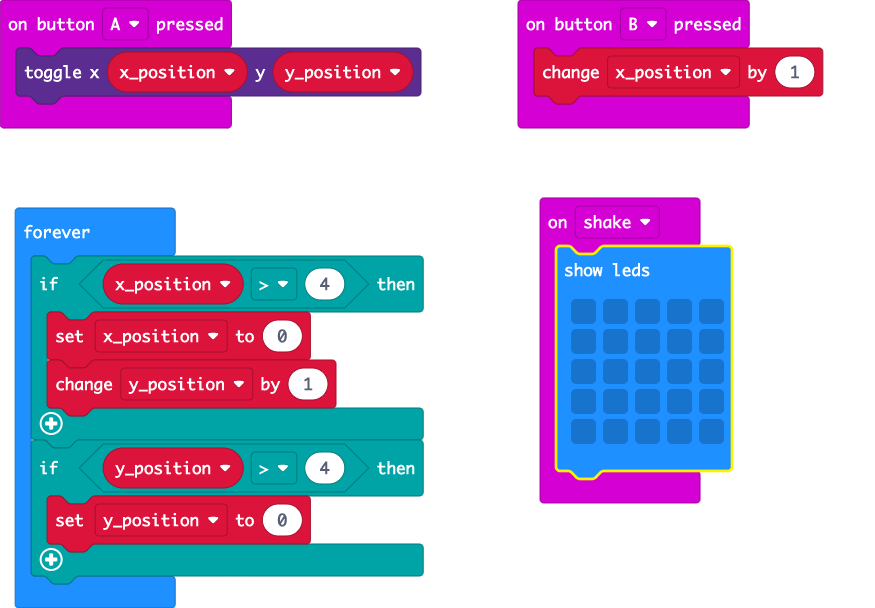
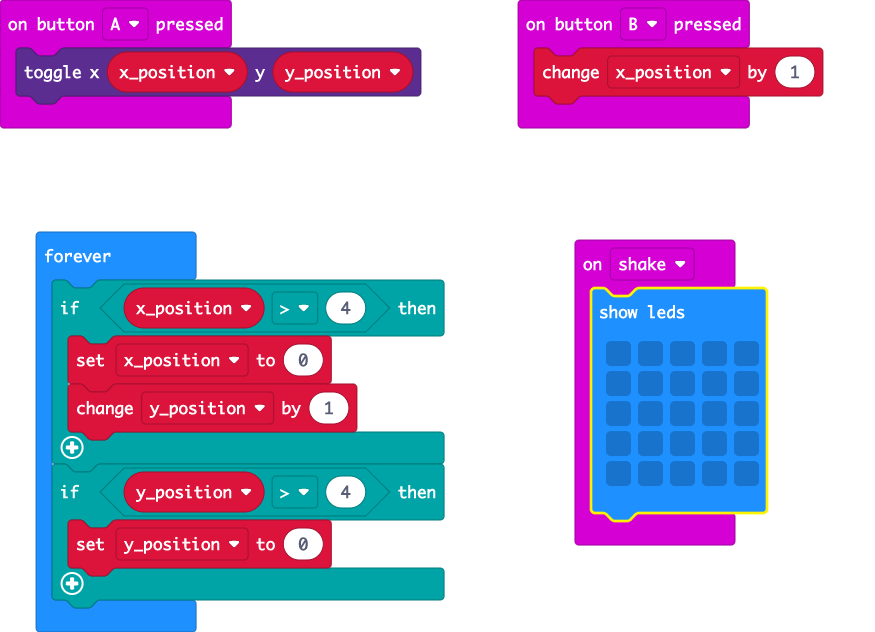
Update main.blocks, main.ts, main.py

diff --git a/main.ts b/main.ts
@@ -7,6 +7,15 @@ input.onButtonPressed(Button.B, function on_button_pressed_b() {
     
     x_position += 1
 })
+input.onGesture(Gesture.Shake, function on_gesture_shake() {
+    basic.showLeds(`
+        . . . . .
+                . . . . .
+                . . . . .
+                . . . . .
+                . . . . .
+    `)
+})
 basic.forever(function on_forever() {
     
     if (x_position > 4) {

diff --git a/main.py b/main.py
@@ -10,6 +10,16 @@ def on_button_pressed_b():
     x_position += 1
 input.on_button_pressed(Button.B, on_button_pressed_b)
 
+def on_gesture_shake():
+    basic.show_leds("""
+        . . . . .
+                . . . . .
+                . . . . .
+                . . . . .
+                . . . . .
+    """)
+input.on_gesture(Gesture.SHAKE, on_gesture_shake)
+
 def on_forever():
     global x_position, y_position
     if x_position > 4:
